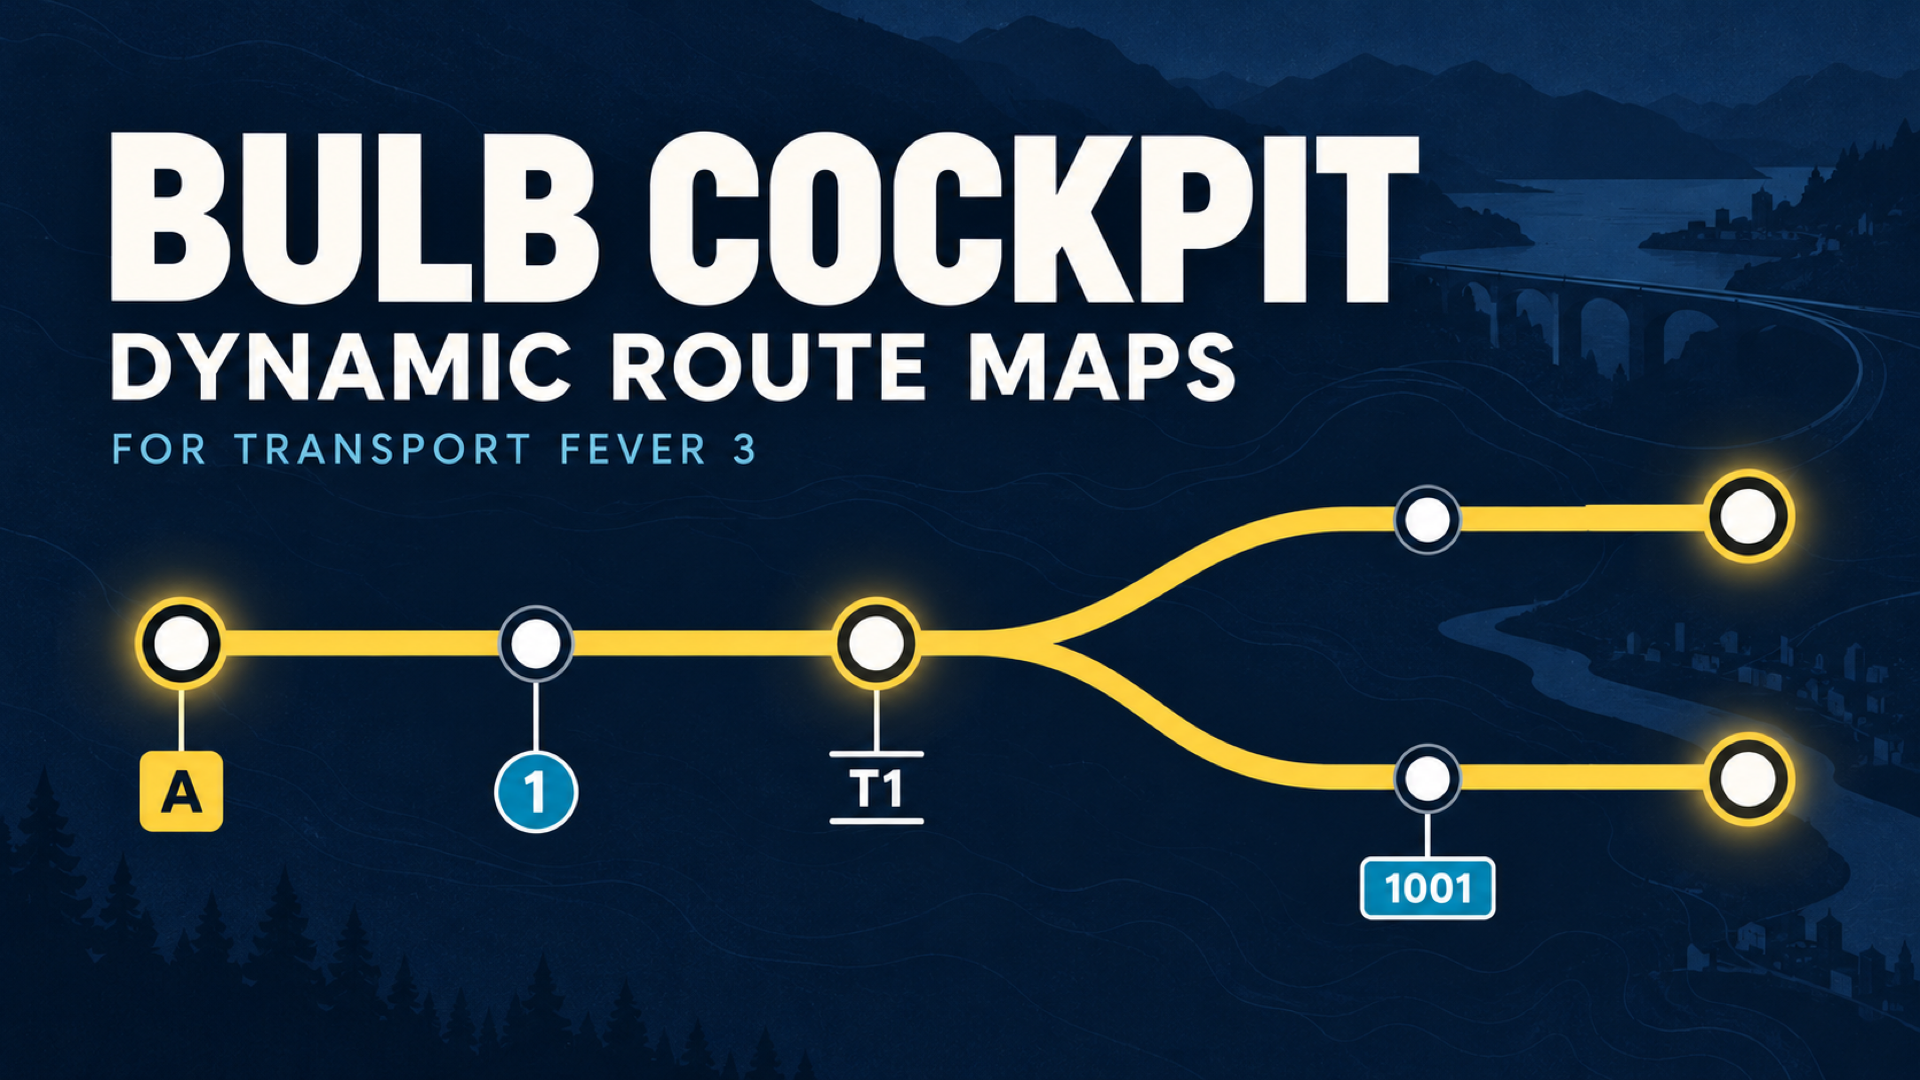
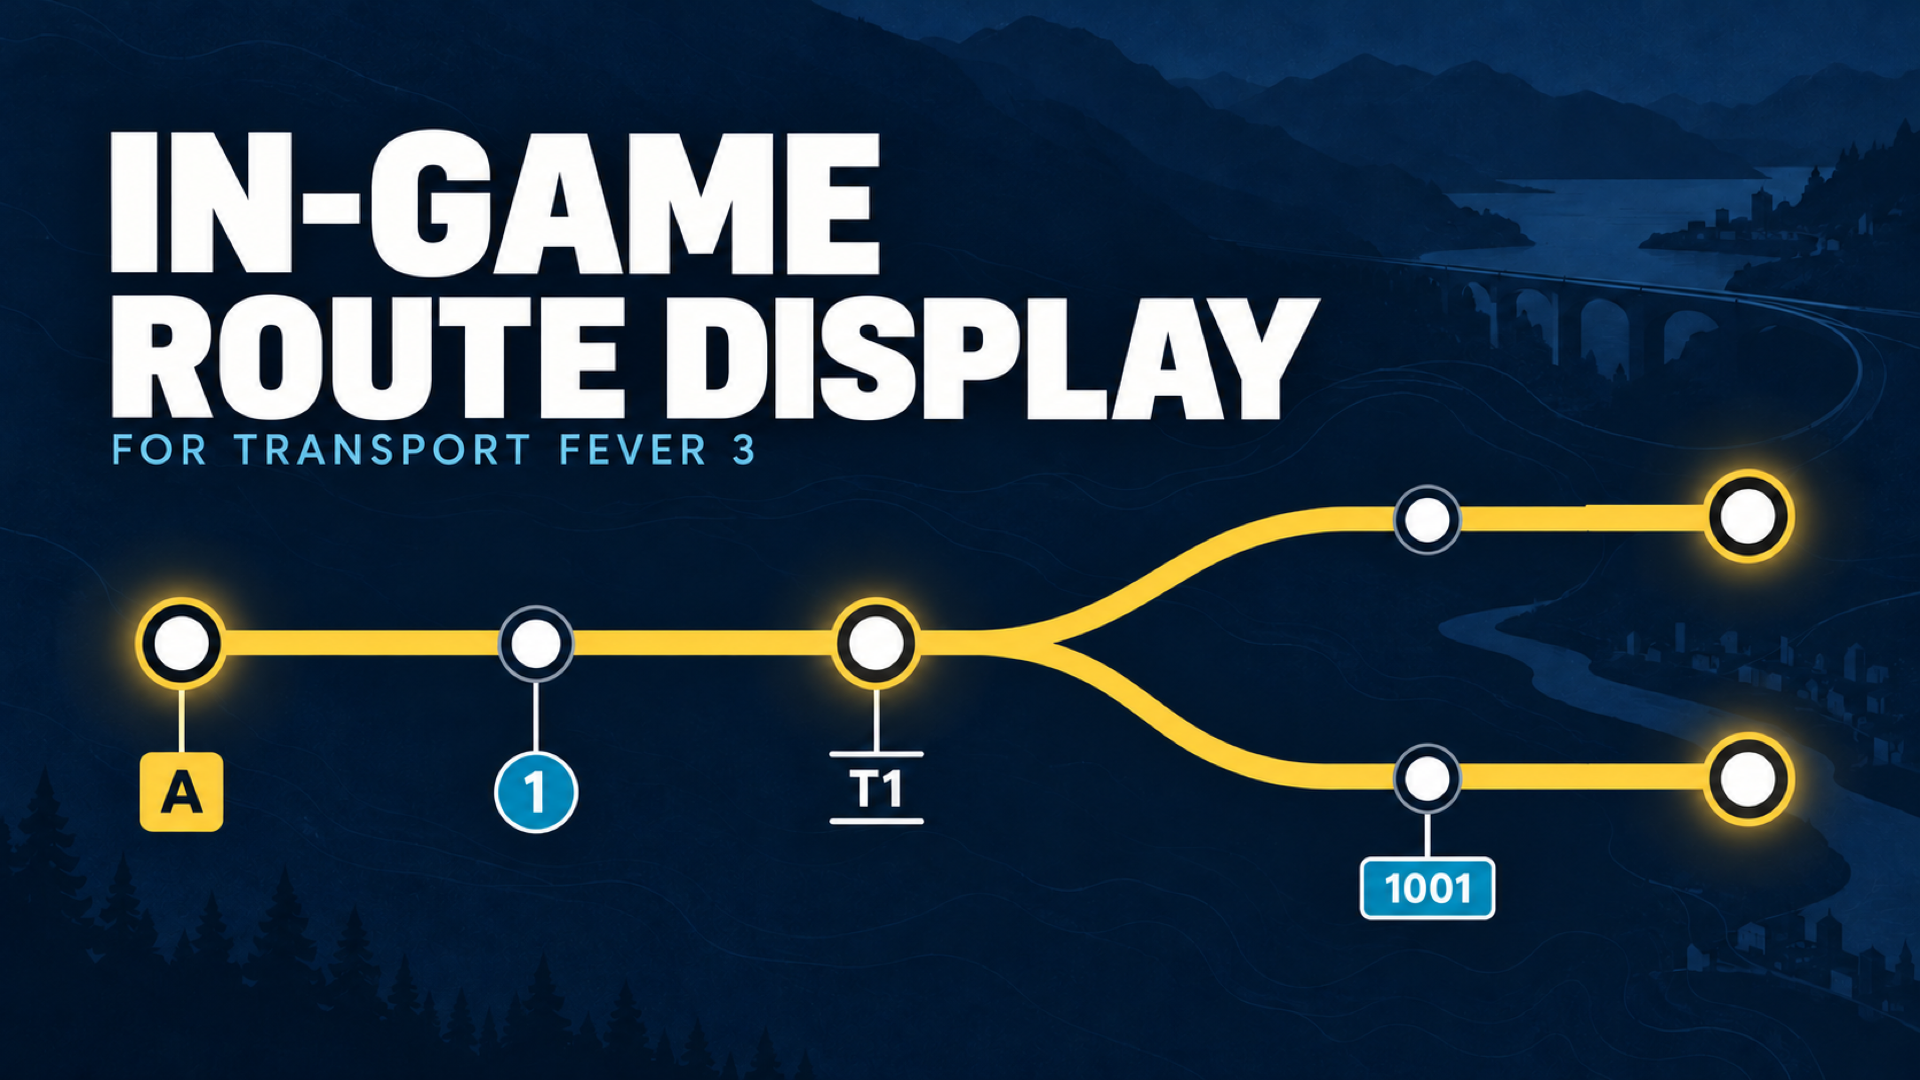
chore: rename mod to In-Game Route Display

diff --git a/tools/package.py b/tools/package.py
@@ -18,7 +18,7 @@ def main():
         raise SystemExit("VERSION and game revision disagree")
     destination = ROOT / "dist"
     destination.mkdir(exist_ok=True)
-    archive = destination / f"tf3-bulb-cockpit-{version}.zip"
+    archive = destination / f"tf3-route-display-{version}.zip"
     with zipfile.ZipFile(archive, "w", zipfile.ZIP_DEFLATED, compresslevel=9) as output:
         for path in sorted((ROOT / "mod").rglob("*")):
             if not path.is_file() or path.name in {".DS_Store", "mod.io_fileid.txt"} or "__pycache__" in path.parts:

diff --git a/install.py b/install.py
@@ -17,4 +17,4 @@ if destination.exists():
     shutil.copytree(destination, backup)
 shutil.copytree(root/'mod', destination, dirs_exist_ok=True)
 print('Installed: '+str(destination))
-print('Save and fully restart TF3, then load the save with BULB 风格 · 动态车内线路图 enabled.')
+print('Save and fully restart TF3, then load the save with In-Game Route Display / 游戏线路显示 enabled.')

diff --git a/README.en.md b/README.en.md
@@ -1,12 +1,12 @@
-# TF3 BULB Cockpit · 0.1.65dev
+# In-Game Route Display · 0.1.66dev
 
 English · [中文说明](README.md)
 
-![BULB Cockpit AI-generated promotional cover](mod/_metadata/0.png)
+![In-Game Route Display AI-generated promotional cover](mod/_metadata/0.png)
 
 AI-generated promotional artwork. See the screenshots below for actual gameplay.
 
-Native route maps and a clickable line directory for Transport Fever 3, inspired by [BULB](https://bulb.slama.io/editor). No browser, image export or external renderer is needed while playing.
+Shows vehicle routes, stop progress and transfers directly in Transport Fever 3, with dynamic first-person maps and a clickable line directory. No browser, image export or external renderer is needed while playing.
 
 This is a development build targeting macOS Build 40420. Windows and Linux have not been tested. Long-session FPS degradation remains under investigation; passing Lua tests does not establish that the game’s native resources are fully released.
 
@@ -27,7 +27,7 @@ These are the user's original 5120×2880 gameplay captures, without AI alteratio
 Published packages are available under [Releases](https://github.com/Languisher/tf3-bulb-cockpit/releases). To install this development version from source, copy `mod/` into the game’s user directory as `local/mods/linnan_bulb_cockpit`, or run `python3 install.py` on macOS. The installer backs up the previous mod and leaves game saves untouched.
 
 1. Fully quit the game before installing or upgrading.
-2. Load your save with **BULB 风格 · 动态车内线路图** enabled.
+2. Load your save with **In-Game Route Display** (Chinese title: **游戏线路显示**) enabled.
 3. Open the route-map button in the upper-left corner of the normal map view.
 4. On the directory homepage, click **English**. Click **中文** to switch back.
 5. Save your game to retain the language preference when reloading.
@@ -71,6 +71,6 @@ python3 tools/run_tests.py --game-gui /path/to/extracted/gui/main
 
 The directory must contain `react.lua`, `stylesheetutil.lua` and the relative `../../scripts/mat4.tl`. Game sources are not redistributed. Without this argument, those tests are explicitly skipped.
 
-Version 0.1.65dev passed 48 Lua tests and 66 syntax checks locally, including bilingual persistence, failure rollback, native React wrappers, layout bounds and resource-lifetime budgets. These checks mock the game’s C++ GUI and cannot replace in-game visual and performance checks.
+Version 0.1.66dev passed 48 Lua tests and 66 syntax checks locally, including bilingual persistence, failure rollback, native React wrappers, layout bounds and resource-lifetime budgets. These checks mock the game’s C++ GUI and cannot replace in-game visual and performance checks.
 
 The mod includes no commercial Parisine font or game fonts. It uses the game’s native fonts and approximates BULB’s visual style. Asset attribution is in [notice.md](mod/content/gui/bulb_cockpit/symbols/notice.md). This project is not affiliated with BULB, RATP, Île-de-France Mobilités or the game developer.

diff --git a/publishing/MODIO.md b/publishing/MODIO.md
@@ -1,4 +1,4 @@
-# mod.io release materials · 0.1.65dev
+# In-Game Route Display · mod.io release materials · 0.1.66dev
 
 This directory documents the prepared development release. A staged folder or GitHub upload does not establish that a public mod.io listing exists.
 
@@ -12,12 +12,12 @@ This directory documents the prepared development release. A staged folder or Gi
 - `cover-prompt.txt`: final prompt used with the built-in imagegen tool.
 - `changelog.txt`: upload changelog text.
 
-The upload folder must contain `mod.json`, `_metadata/` and `content/` directly. Stage only `mod/`, not this repository, its backups, or a containing ZIP. Keep `modId` as `linnan_bulb_cockpit`; the initial prepared upload uses revision `65` and the human-facing version `0.1.65dev`.
+The upload folder must contain `mod.json`, `_metadata/` and `content/` directly. Stage only `mod/`, not this repository, its backups, or a containing ZIP. Keep `modId` as `linnan_bulb_cockpit` for save compatibility; the prepared upload uses revision `66` and the human-facing version `0.1.66dev`. Its English title is **In-Game Route Display** and its Chinese title is **游戏线路显示**.
 
 ## Publish through the game
 
 1. Place the folder in the profile's `local/staging_area/linnan_bulb_cockpit/` and restart the game so it is discovered.
-2. Main menu → Mod Hub → My Mods → select BULB Cockpit. Log in to mod.io if prompted.
+2. Main menu → Mod Hub → My Mods → select In-Game Route Display / 游戏线路显示. Log in to mod.io if prompted.
 3. Check the cover, both gallery screenshots, profile and platform validation. Use the development-build description as supplied; Windows/Linux/console compatibility is not claimed.
 4. Set visibility to Public and upload. Resolve any reported validation errors; a locally verified archive is not a substitute for the game's publisher validation.
 5. Verify the resulting mod.io page and platform file status, then add that exact page URL to the READMEs.

diff --git a/CHANGELOG.md b/CHANGELOG.md
@@ -1,5 +1,13 @@
 # 更新记录
 
+## 0.1.66dev — 2026-10-12
+
+### 调整
+
+- 模组中文名称改为「游戏线路显示」，英文名称改为「In-Game Route Display」，标题直接说明游戏内线路显示功能。
+- 同步游戏模组资料、AI 封面、中英文说明、安装提示和下载包名称。
+- 保留现有模组 ID、资源路径与素材归属，沿用现有存档和编号配置；运行逻辑保持不变。
+
 ## 0.1.65dev — 2026-10-11
 
 ### 发布资料 — 2026-10-12
